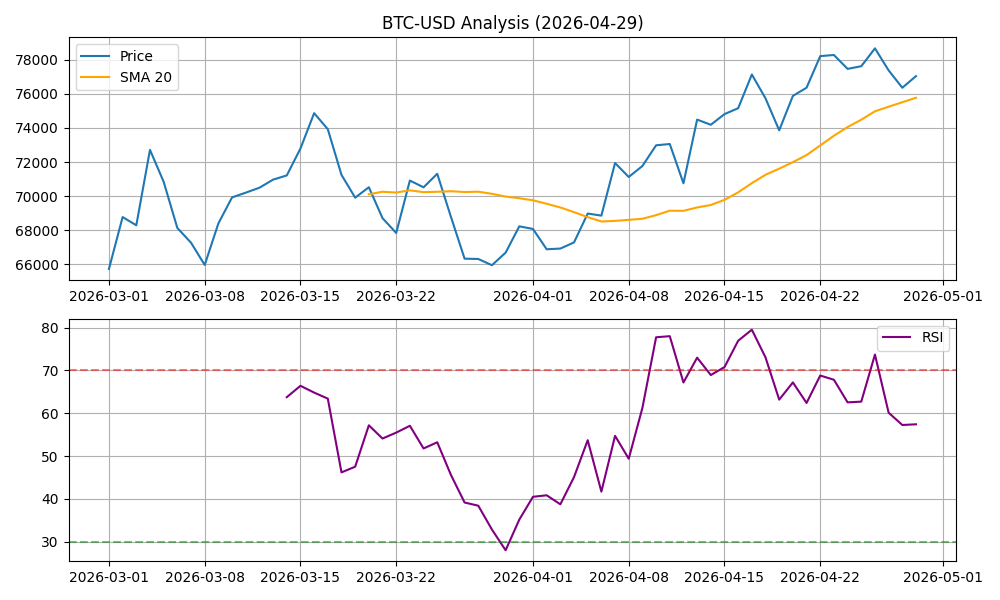
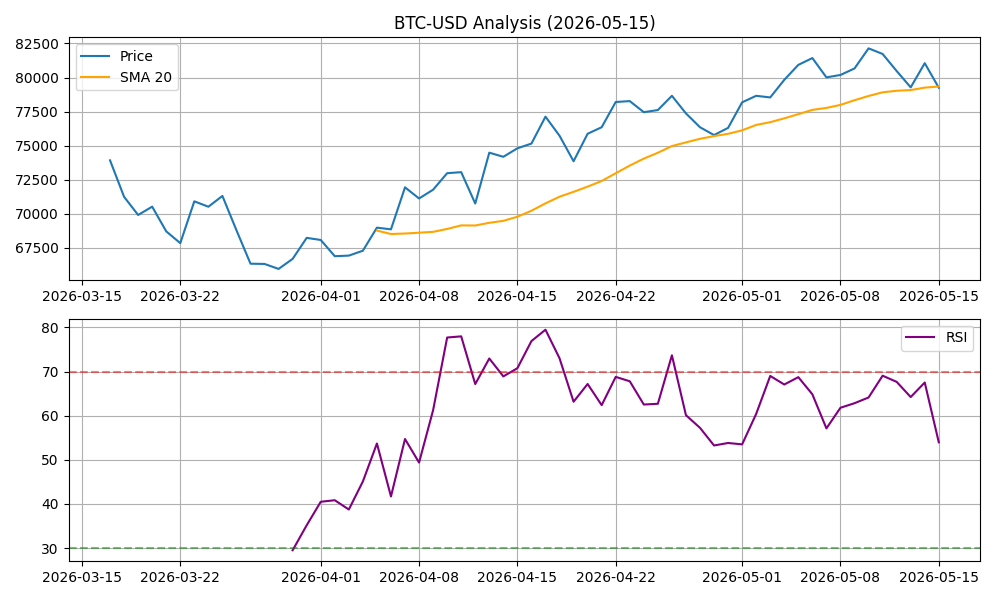
Update market analysis chart. Log tech sentiment stats. Refreshed Dashboard.

diff --git a/README.md b/README.md
@@ -1,6 +1,6 @@
 # 🤖 Advanced Engineering Automation Dashboard
 
-**Auto-generated Report** | Last Updated: 2026-05-05 10:47:30
+**Auto-generated Report** | Last Updated: 2026-05-15 22:27:33
 
 > **Project Overview**
 > This project performs real data fetching and analysis.
@@ -11,15 +11,15 @@
 > *This is a legitimate "Data Collection & Analysis" project, not a fake commit generator.*
 
 ## 📊 Market Pulse (CryptoAnalyst)
-> 2026-04-29 14:27:12.789773: BTC $77031.01 | RSI: 57.42
+> 2026-05-15 22:27:21.011741: BTC $79250.61 | RSI: 53.98
 
 ![BTC Analysis](data/btc_analysis.png)
 
 ## 📰 Tech Sentiment (NewsPulse)
-## 2026-05-01
-- **Tech Mood**: Positive 📈 (Score: 0.11)
-- **Top Story**: Your Website Is Not for You
-- **Sample**: _Running Adobe's 1991 PostScript Interpreter in the Browser_
+## 2026-05-15
+- **Tech Mood**: Positive 📈 (Score: 0.07)
+- **Top Story**: Project Gutenberg – keeps getting better
+- **Sample**: _A 0-click exploit chain for the Pixel 10_
 
 
 

diff --git a/data/daily_digest.md b/data/daily_digest.md
@@ -153,3 +153,8 @@
 - **Top Story**: Your Website Is Not for You
 - **Sample**: _Running Adobe's 1991 PostScript Interpreter in the Browser_
 
+## 2026-05-15
+- **Tech Mood**: Positive 📈 (Score: 0.07)
+- **Top Story**: Project Gutenberg – keeps getting better
+- **Sample**: _A 0-click exploit chain for the Pixel 10_
+